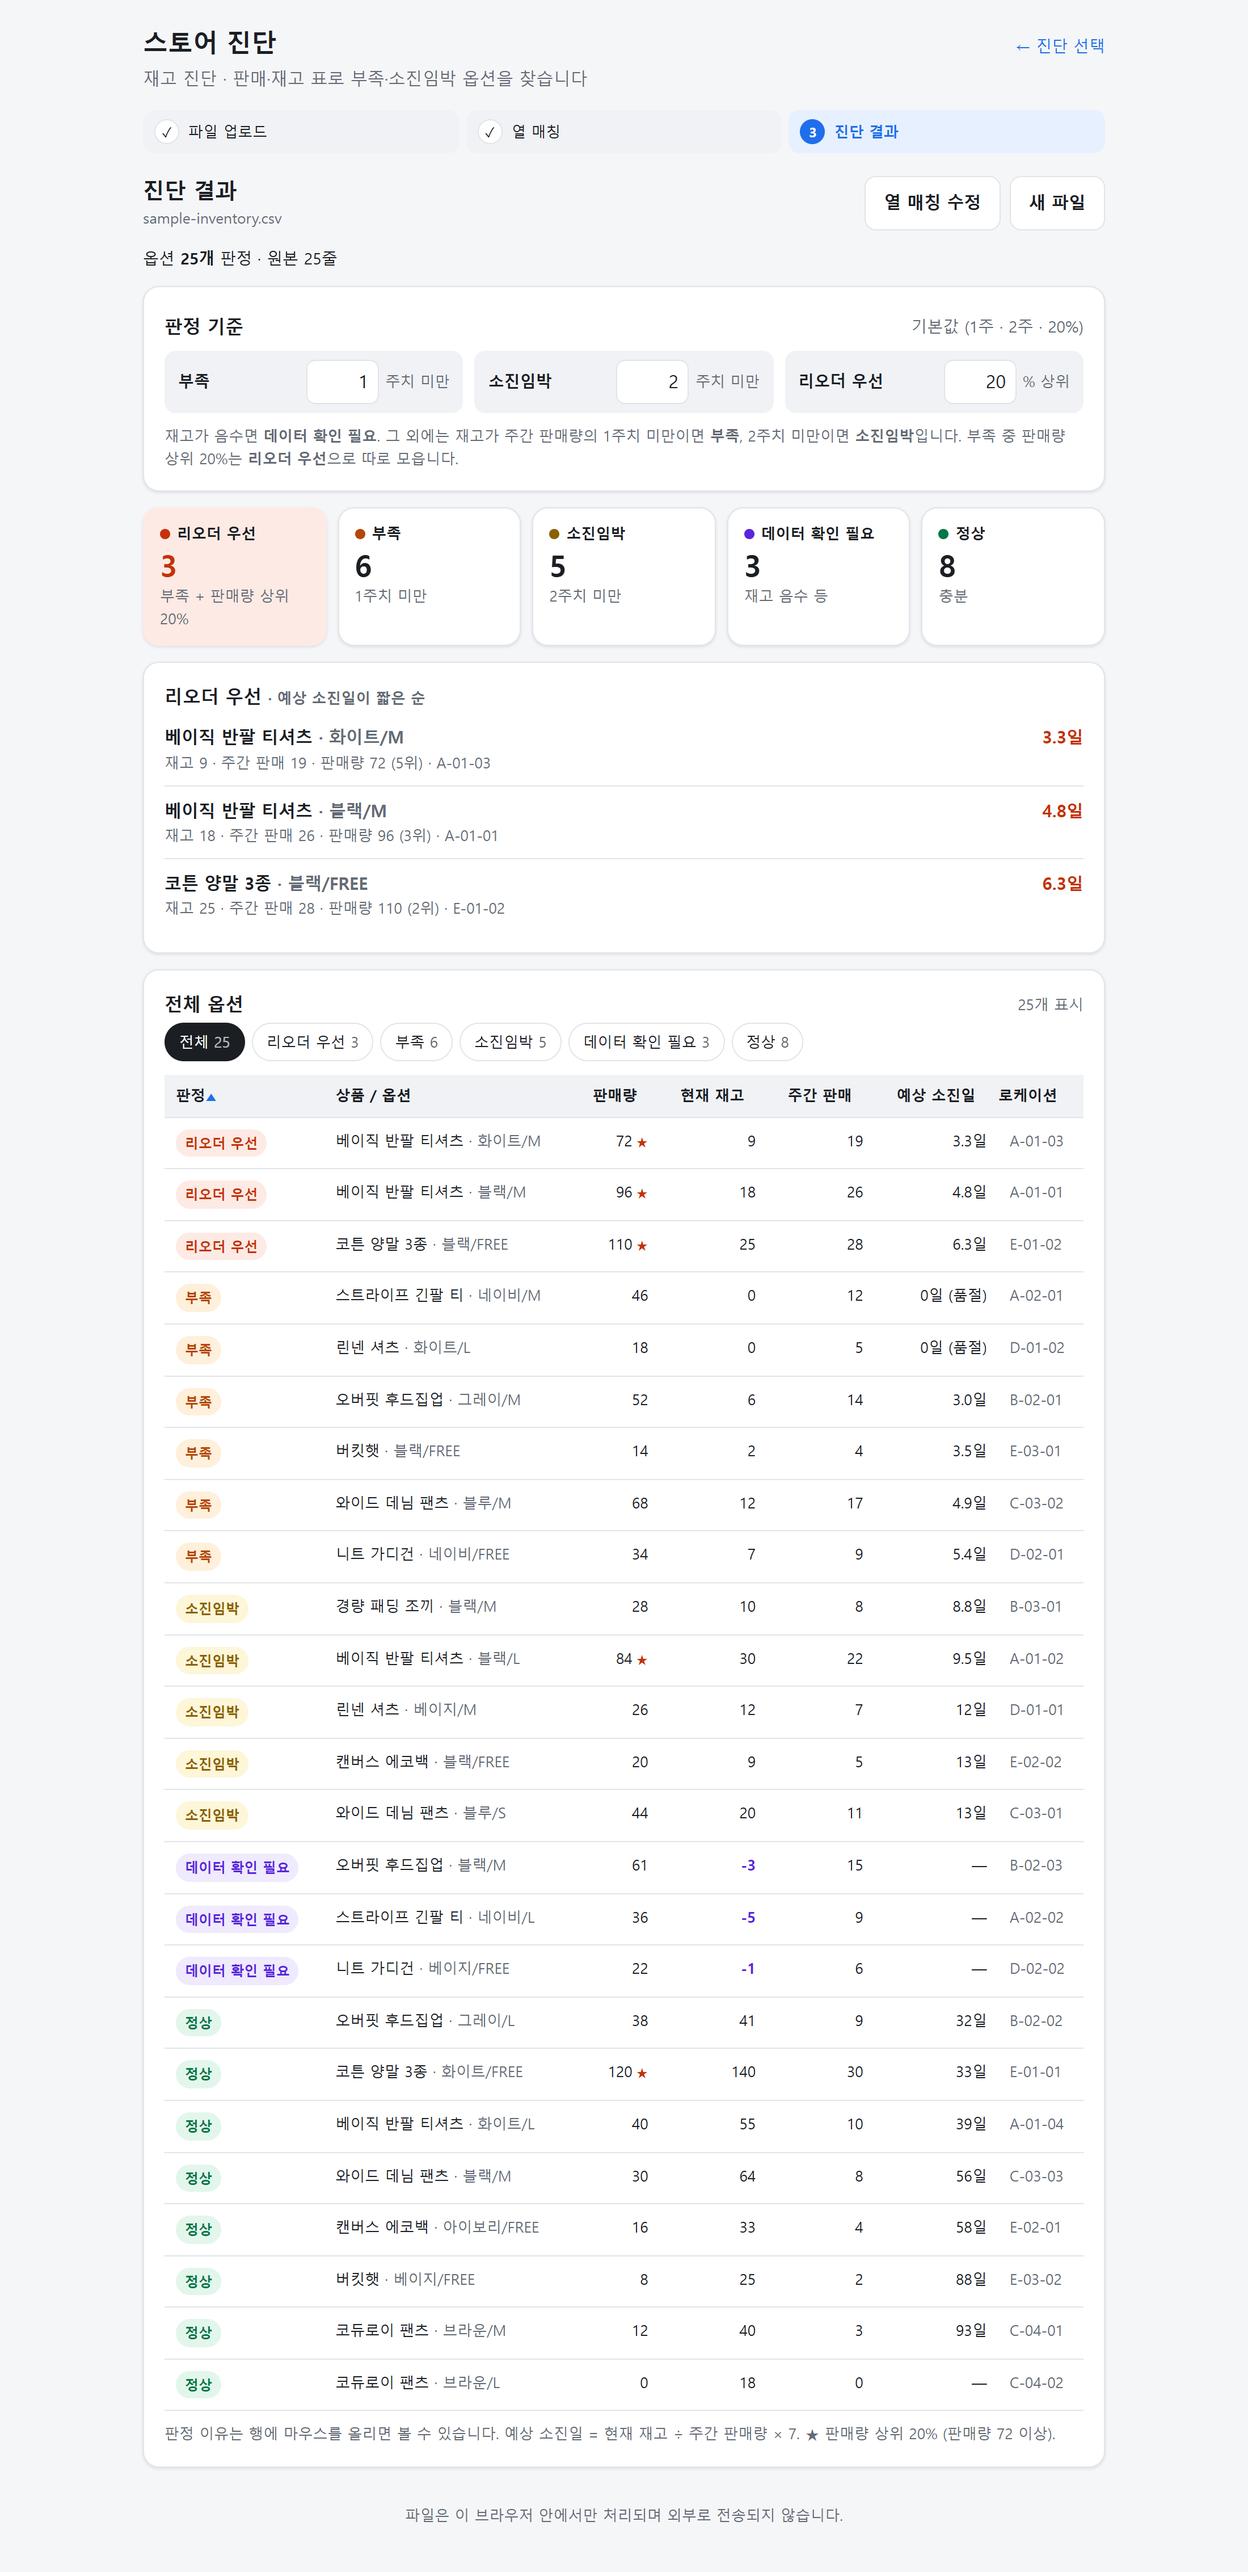
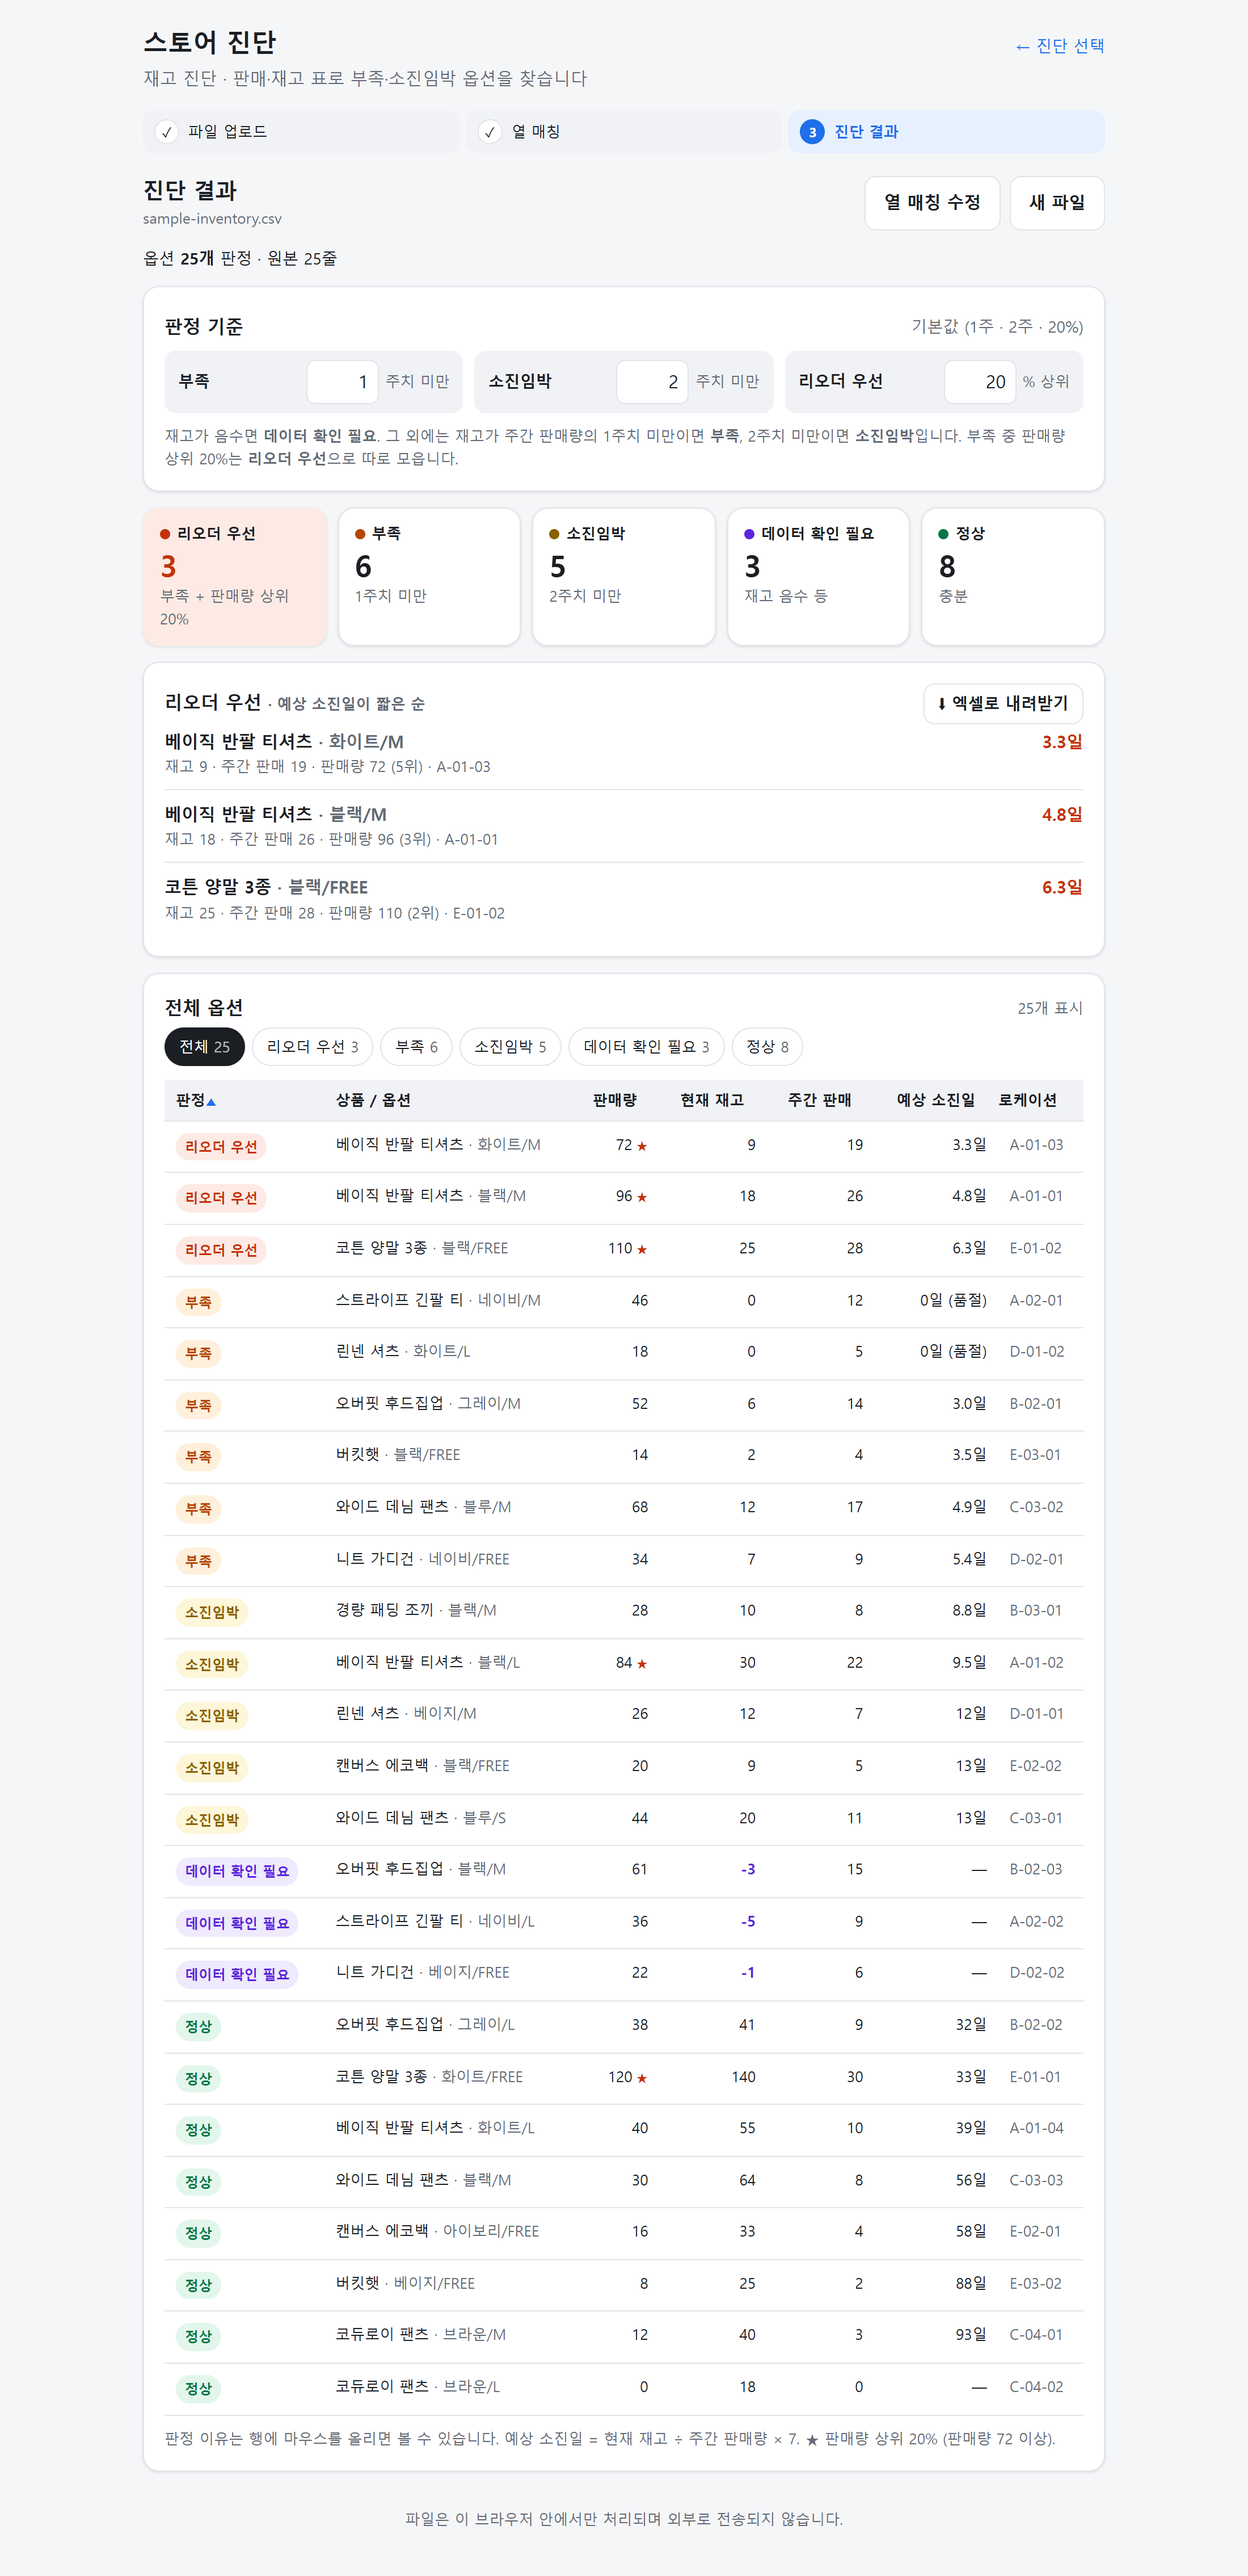
README 재고 진단 스크린샷 갱신 (엑셀 내려받기 버튼), 마무리 기록

diff --git a/WORK_STATUS.md b/WORK_STATUS.md
@@ -149,6 +149,11 @@
 - 브라우저 확인: 실제 저장은 막고 생성된 파일을 가로채 다시 읽어 내용 확인
   (리오더우선_20261012.xlsx, 시트 2개, 3행, 부족 수량 29/34/31), 상위 0%일 때 버튼 비활성
 
+### ✅ 15단계 — 마무리 (2026-10-12)
+- 1차 완성으로 정리. GitHub(main)·Vercel 배포 최신 상태 확인
+- README 재고 진단 스크린샷을 엑셀 버튼이 보이도록 다시 촬영 (나머지 9장은 변경 없음)
+- 현재 상태: 테스트 71개 통과, 빌드 통과, 배포 https://store-diagnosis.vercel.app
+
 ## 실행 방법
 ```
 cd store-diagnosis
